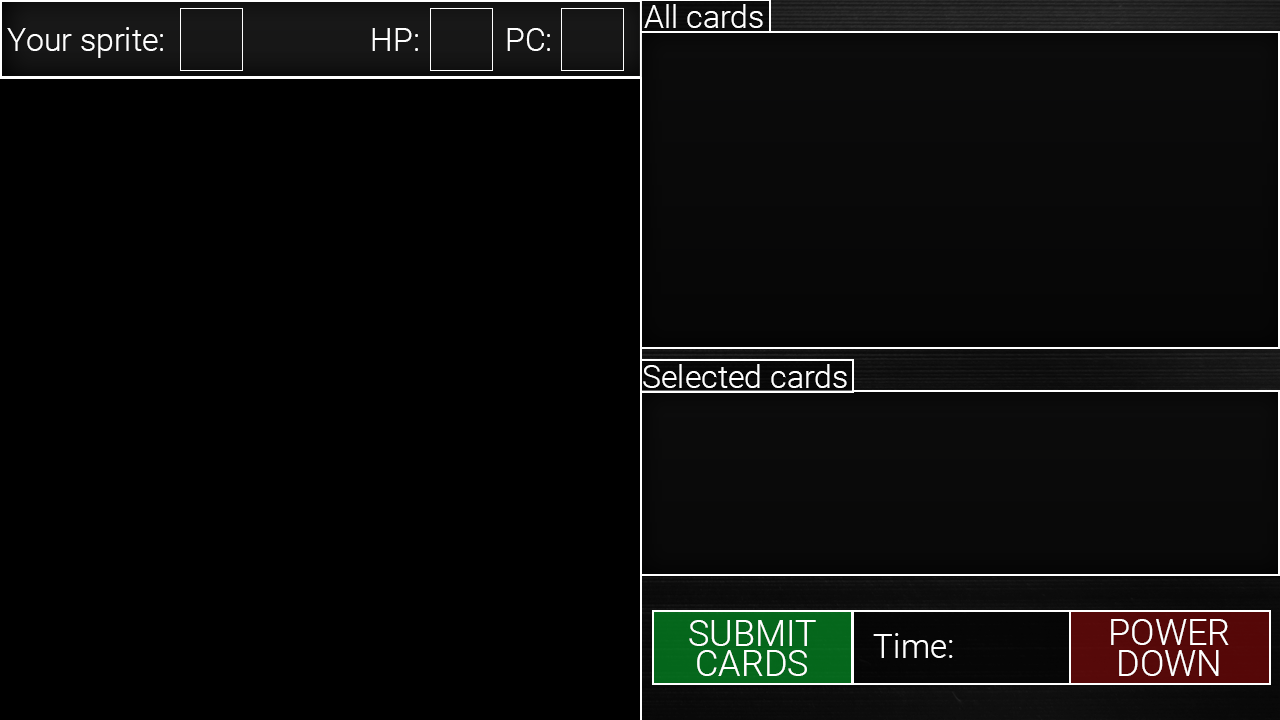
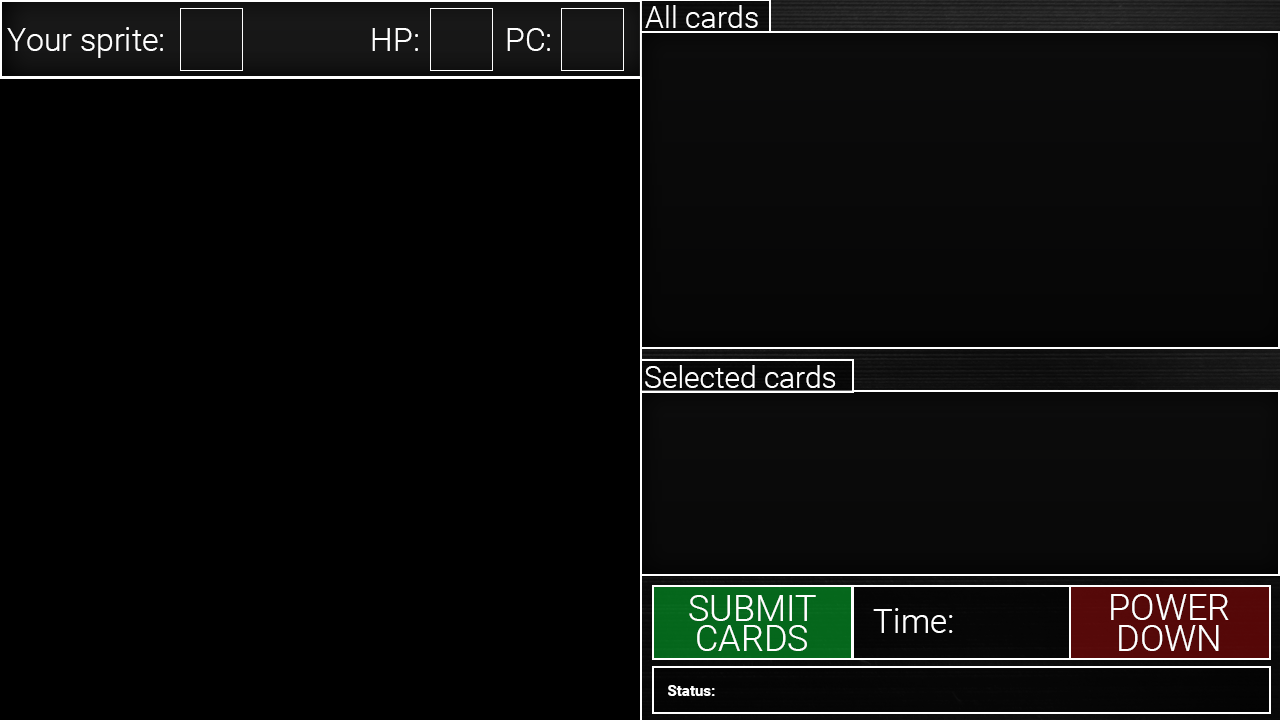
Fixed memory leak, implemented status messages.

Changed region(s): [[0.5, 0.7944, 1.0, 1.0], [0.5, 0.4889, 0.6562, 0.55], [0.5, 0.0, 0.5938, 0.0611]]

diff --git a/src/main/java/inf112/skeleton/app/Game.java b/src/main/java/inf112/skeleton/app/Game.java
@@ -40,11 +40,12 @@ public class Game implements ApplicationListener {
     private Hand hand;                          //The hand of this player
     private boolean hasPrintedHandInfo;          //true if player has been informed of the state of the hand and selected cards, false if changes has been made since last print.
     private boolean hasPrintedState;            //true if player has been informed of current state of game, false otherwise.
+    private String statusMessage;               //Status message to print to user.
 
-    //Optimization/attempts at fixing memory leak
-    private boolean hasDrawnBG;
+    //Optimization/fixing memory leak issue from previous versions
     private Player thisPlayer; //The current instance's player object
     private BitmapFont font; //Font for rendering text to gui
+    private Texture bgTexture;
 
     //Network related variables:
     private final Network network;
@@ -121,8 +122,9 @@ public class Game implements ApplicationListener {
         laserList = board.getLaserList();
         boardSize = board.getSize();
         hasPrintedHandInfo = false;
-        hasDrawnBG = false;
         font = new BitmapFont();
+        bgTexture = new Texture("src/main/resources/tex/background.png");
+        statusMessage = "";
     }
 
     @Override
@@ -144,10 +146,7 @@ public class Game implements ApplicationListener {
 
         //The rendering part of the function:
         batch.begin();
-        if(!hasDrawnBG){
-            Sprite background = new Sprite(new Texture("src/main/resources/tex/background.png"));
-            background.draw(batch);
-        }
+        batch.draw(bgTexture, 0, 0);
         if(phase == Phase.FINISHED){ //If the game is over
             Sprite winnerSprite = spriteMap.get(winner.getShortName());
             winnerSprite.setSize(camera.viewportWidth, camera.viewportHeight);
@@ -184,40 +183,7 @@ public class Game implements ApplicationListener {
         batch.flush();
         batch.end();
     }
-
-    /**
-     * Function for path tracing from a laser to an object that can be hit by it, damages players if
-     * the object is a player as opposed to a wall.
-     */
-    public void fireLasers(){
-        System.out.println(laserList);
-        for(Laser laser : laserList){
-            Pair dir = dirMap.get(laser.getDirection());
-            Pair currentPos = laser.getCoordinates();
-            while(true) {
-                if(currentPos.getX()+dir.getX() < 0 || currentPos.getX()+dir.getX() > boardSize){
-                    break;
-                }
-                else if(currentPos.getY()+dir.getY() < 0 || currentPos.getY()+dir.getY() > boardSize){
-                    break;
-                }
-                AbstractGameObject object = board.getPosition(currentPos.getX()+dir.getX(), currentPos.getY()+dir.getY());
-                if (object.getShortName().equals("w")){
-                    break;
-                }
-                else if(object.getShortName().matches("p\\d+")){
-                    Player player = (Player) object;
-                    player.damage();
-                    System.out.println(player.getPc());
-                    break;
-                }
-                currentPos = new Pair(currentPos.getX()+dir.getX(), currentPos.getY()+dir.getY());
-                //Add an else here for updating texture and adding a pause between
-            }
-        }
-    }
-
-
+        
     /**
      * Handles the logic specific to when the instance is a server.
      * Creates and sends data as opposed to receiving and handling data like in clientRenderLogic.
@@ -225,7 +191,7 @@ public class Game implements ApplicationListener {
     private void serverRenderLogic() {
         if(phase == Phase.WAIT_CONNECT){
             if(!hasPrintedState){
-                System.out.println("Awaiting " + (numPlayers-1) + " more players. Please stand by.");
+                statusMessage = "Awaiting " + (numPlayers-1) + " more players. Please stand by.";
             }
             hasPrintedState = true;
             if(gameServerListener.getConnectedPlayers()+1 == numPlayers){
@@ -235,13 +201,13 @@ public class Game implements ApplicationListener {
                     connection.sendTCP(gi);
                 }
                 phase = Phase.DEAL_CARDS;
-                System.out.println("Changed phase to Deal Cards");
+                statusMessage = "Dealing cards...";
             }
         }
         else if(phase == Phase.DEAL_CARDS){ //If we are in the DEAL_CARDS phase
             dealCardsToAllPlayers(); //Sends a hand of cards to all players
-            System.out.println("Dealt cards");
             phase = Phase.CARD_SELECT;
+            statusMessage = "Select cards to move. Click SUBMIT CARDS when ready (not implemented yet)";
             gameServerListener.resetReceivedMoves();
         }
         else if(phase == Phase.CARD_SELECT){ //If player should choose cards
@@ -257,25 +223,22 @@ public class Game implements ApplicationListener {
             else{
                 gameServerListener.receivedMoves.add(hand);
                 phase = Phase.WAIT_FOR_CLIENT_MOVE;
+                statusMessage = "Awaiting other player moves...";
                 hasPrintedState = false;
             }
         }
         else if(phase == Phase.WAIT_FOR_CLIENT_MOVE){
             if(gameServerListener.numReceivedMoves == gameServerListener.getConnectedPlayers()){
                 phase = Phase.SEND_CARDS;
+                statusMessage = "Sending cards to all clients.";
                 allMoves = gameServerListener.receivedMoves;
                 hasPrintedState = false;
-            }
-            else{
-                if(!hasPrintedState){
-                    System.out.println("Awaiting client card submissions, please wait.");
-                    hasPrintedState = true;
-                }
             }
         }
         else if (phase == Phase.SEND_CARDS){
             sendListOfAllMoves();
             phase = Phase.MOVE;
+            statusMessage = "Players moving!";
         }
         else if(phase == Phase.MOVE){
             doOnePlayerMove(); //Advances moves by one
@@ -302,17 +265,11 @@ public class Game implements ApplicationListener {
             hand = network.getGameClientListener().getHand();
             phase = Phase.CARD_SELECT;
             if (!moveMessagePrinted) { // If it has not printed that it's your move yet, it will
-                System.out.println("Your move");
+                statusMessage = "Select cards to move. Click SUBMIT CARDS when ready (not implemented yet)";
                 moveMessagePrinted = true;
             }
             if (!(hand.getNumberOfCardsSelected() == 5)) { //If the player has not registered enough cards.
-                if(!hasPrintedHandInfo){
-                    printCardInfo();
-                    hasPrintedHandInfo = true;
-                }
-                if(selectMove()){ //If a move is done
-                    hasPrintedHandInfo = false; //Update this value so it prints the new state of hand.
-                }
+                selectMove();
             }
             else { // If a move is registered it will start the sending process
                 if (network.getClient().isConnected()) { // Checks once more if a disconnect has happened
@@ -327,10 +284,11 @@ public class Game implements ApplicationListener {
                         e.printStackTrace();
                     }
                 }
-                System.out.println("Moves sent"); // Tells player of client that their move has been registered.
+                statusMessage = "Moves sent, awaiting other player moves..."; // Tells player of client that their move has been registered.
                 network.getGameClientListener().resetNeedMoveInput(); // Set the needMoveInput to false as no input is longer needed until it receives request to move again
                 moveMessagePrinted = false; // Reset moveMessagePrinted
                 phase = Phase.MOVE;
+                statusMessage = "Players moving!";
                 network.getGameClientListener().resetHandReceived(); //Reset the bool for having received a hand of cards
             }
         }
@@ -391,6 +349,11 @@ public class Game implements ApplicationListener {
      * Renders UI elements to the user's screen.
      */
     private void renderUIElements(){
+        //Draw status message
+        if(!statusMessage.equals("")){
+            font.getData().setScale(1);
+            font.draw(batch, statusMessage, 720, 35);
+        }
         if(hand == null) return;
         if(thisPlayer == null){ //Gets this instance's player object if we don't have it saved
             if(isServer){
@@ -459,7 +422,38 @@ public class Game implements ApplicationListener {
             font.setColor(Color.WHITE);
             selectedOffsetX += 100;
         }
+    }
 
+    /**
+     * Function for path tracing from a laser to an object that can be hit by it, damages players if
+     * the object is a player as opposed to a wall.
+     */
+    public void fireLasers(){
+        System.out.println(laserList);
+        for(Laser laser : laserList){
+            Pair dir = dirMap.get(laser.getDirection());
+            Pair currentPos = laser.getCoordinates();
+            while(true) {
+                if(currentPos.getX()+dir.getX() < 0 || currentPos.getX()+dir.getX() > boardSize){
+                    break;
+                }
+                else if(currentPos.getY()+dir.getY() < 0 || currentPos.getY()+dir.getY() > boardSize){
+                    break;
+                }
+                AbstractGameObject object = board.getPosition(currentPos.getX()+dir.getX(), currentPos.getY()+dir.getY());
+                if (object.getShortName().equals("w")){
+                    break;
+                }
+                else if(object.getShortName().matches("p\\d+")){
+                    Player player = (Player) object;
+                    player.damage();
+                    System.out.println(player.getPc());
+                    break;
+                }
+                currentPos = new Pair(currentPos.getX()+dir.getX(), currentPos.getY()+dir.getY());
+                //Add an else here for updating texture and adding a pause between
+            }
+        }
     }
 
     /**
